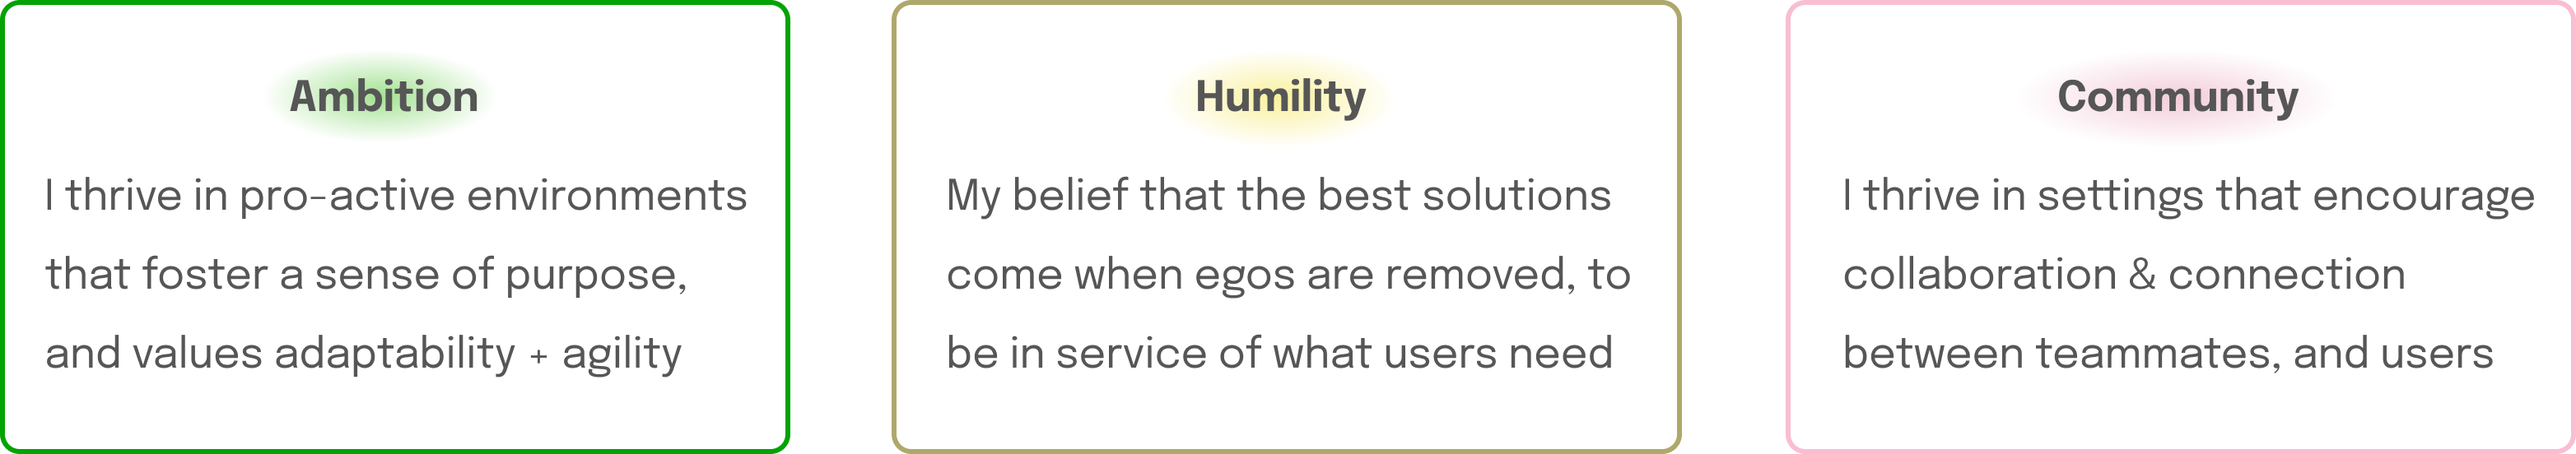
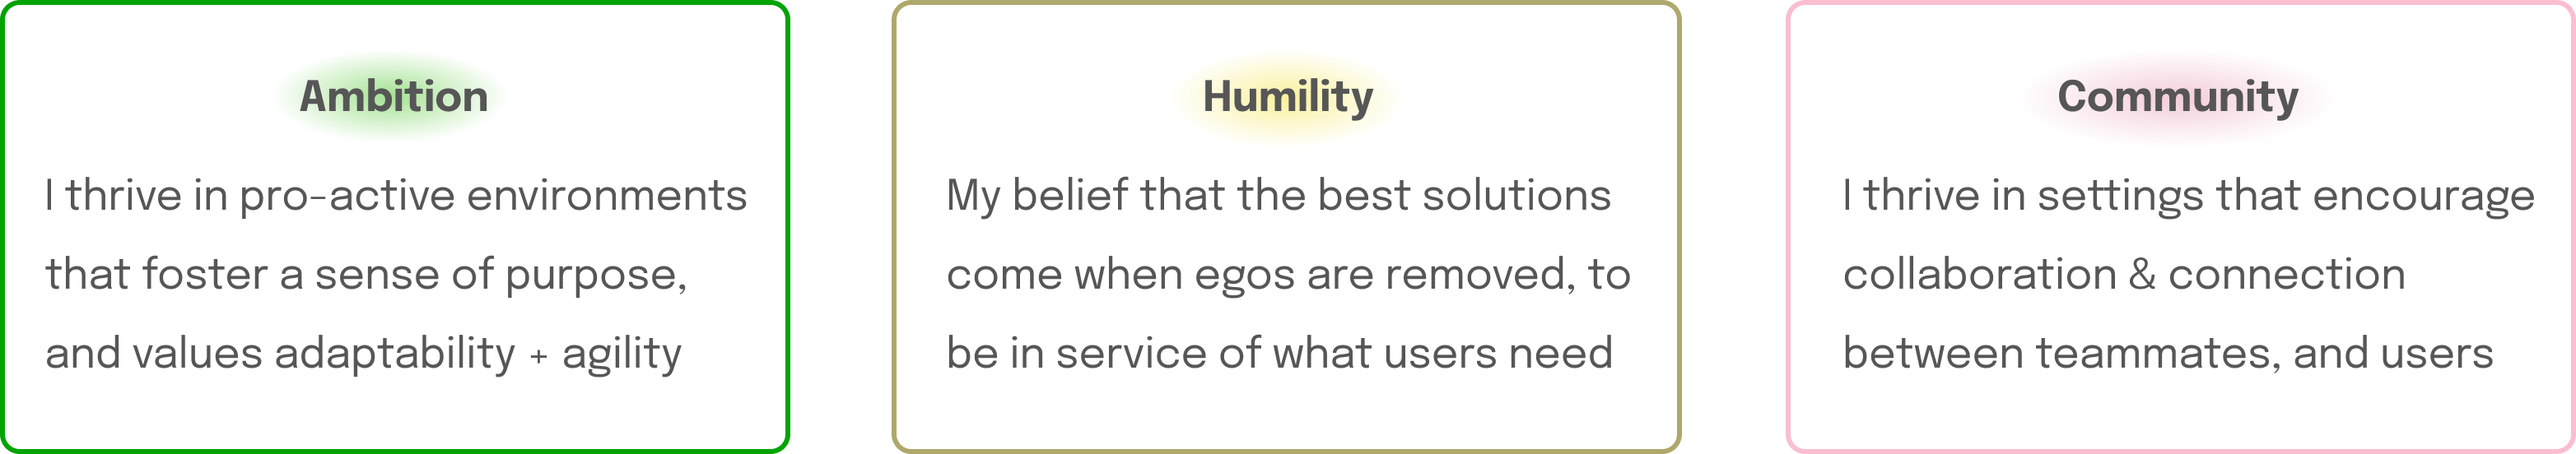
broke down text sizing of index header

Changed region(s): [[0.465, 0.154, 0.558, 0.2464], [0.093, 0.154, 0.186, 0.2464]]

diff --git a/index.html b/index.html
@@ -47,13 +47,14 @@
         <div class="left-right-padding-small" style="padding-top: 0rem; padding-bottom: 3rem;">
             <div>
                 <div class="hero">
-                    <div style="max-width: 100%; text-align: center;">
-                        <p data-aos="fade-up" data-aos-once="true" data-aos-delay="0" data-aos-duration="1000" data-aos-easing="ease-in-out" data-aos-mirror="false">Hi and welcome ◡̈</p>
+                    <div style="max-width: 100%; text-align: center; margin-left: auto; margin-right: auto;">
+                        <p data-aos="fade-up" data-aos-once="true" data-aos-delay="0" data-aos-duration="1000" data-aos-easing="ease-in-out" data-aos-mirror="false">Welcome ◡̈</p>
                         <!-- <h1 style="margin-top: 0.85rem; margin-bottom: 1.25rem;">I'm Stacy! A product designer who approaches design challenges with empathy and <span class="title-word title-word-1">humility</span>, and thrives on teams with <span class="title-word title-word-2">drive</span> and <span class="title-word title-word-3">community</span></h1> -->
-                        <h1 style="margin-top: 1.75rem; margin-bottom: 1.25rem;"  data-aos="fade-up" data-aos-once="true" data-aos-delay="1500" data-aos-duration="1000" data-aos-easing="ease-in-out" data-aos-mirror="false">I'm Stacy, a product designer who seeks to understand, and thrives amongst <span class="title-word title-word-1">ambition</span>, <span class="title-word title-word-2">humility</span>, and <span class="title-word title-word-3">community</span></h1>
+                        <h1 style="margin-top: 1.75rem; margin-bottom: 1.25rem;" data-aos="fade-up" data-aos-once="true" data-aos-delay="1000" data-aos-duration="1000" data-aos-easing="ease-in-out" data-aos-mirror="false">Hi, I'm Stacy Kwok!</h1>
+                        <p style="max-width: 55%; margin-left: auto; margin-right: auto;" data-aos="fade-up" data-aos-once="true" data-aos-delay="2000" data-aos-duration="1000" data-aos-easing="ease-in-out" data-aos-mirror="false">I'm a product designer who seeks to understand, and who thrives amongst <span class="title-word title-word-1">ambition</span>, <span class="title-word title-word-2">humility</span>, and <span class="title-word title-word-3">community</span></p>
                         <!-- <p style="max-width: 95%;">Recently designed for magical worlds <a href="https://www.jamcity.com/" target="_blank">@Jam City</a>, and for investing <a href="https://www.questrade.com/home" target="_blank">@Questrade</a>.</p> -->
                         <!-- <a href="https://www.questrade.com/" target="_blank">@Questrade</a>, <a href="https://www.lcbonext.com/" target="_blank">@LCBO|next</a>, and for non-profits <a href="https://uwblueprint.org/" target="_blank">@UW Blueprint</a> -->
-                        <img src="assets-index/header.svg" style="max-width:120%;height:auto;padding-top: 1.8rem; padding-bottom: 0.75rem; padding-left: 1.5rem;" data-aos="fade-up" data-aos-once="true" data-aos-delay="2500" data-aos-duration="1000" data-aos-easing="ease-in-out" data-aos-mirror="false">
+                        <img src="assets-index/header.svg" style="max-width:120%;height:auto;padding-top: 1.8rem; padding-bottom: 0.75rem; padding-left: 1.5rem;" data-aos="fade-up" data-aos-once="true" data-aos-delay="2000" data-aos-duration="1000" data-aos-easing="ease-in-out" data-aos-mirror="false">
                     </div>
                     <!-- <img src="assets-index/sun.svg" style="max-width:120%;height:auto;padding-top: 1rem; padding-bottom: 0.75rem;"> -->
                 </div>
@@ -76,14 +77,14 @@
         <!-- <div class="left-right-padding-small" data-aos="fade" data-aos-once="true" data-aos-delay="0" data-aos-duration="800" data-aos-easing="ease-in-out" data-aos-mirror="false"> -->
         <div class="left-right-padding-small">
             <div class="hero" style="padding-right: 3rem; padding-top: 2.75rem; justify-content: center;">
-                <p class="line-behind" style="width: 100%;" data-aos="fade-up" data-aos-once="true" data-aos-delay="0" data-aos-duration="500" data-aos-easing="ease-in-out" data-aos-mirror="false"><span style="background-color: #F8F6F4; padding: 0 15px; text-align: center;">What do I mean in the statement above?</span></p>
+                <p class="line-behind" style="width: 100%;" data-aos="fade-up" data-aos-once="true" data-aos-delay="3000" data-aos-duration="1000" data-aos-easing="ease-in-out" data-aos-mirror="false"><span style="background-color: #F8F6F4; padding: 0 15px; text-align: center;">What do I mean in the statement above?</span></p>
             </div>
-            <img src="assets-index-2/values-3.png" style="max-width:88%;height:auto;padding-left: 2.75rem;padding-top: 2.5rem;" data-aos="fade-up" data-aos-once="true" data-aos-delay="1000" data-aos-duration="500" data-aos-easing="ease-in-out" data-aos-mirror="false">
+            <img src="assets-index-2/values-3.png" style="max-width:88%;height:auto;padding-left: 2.75rem;padding-top: 2.5rem;" data-aos="fade-up" data-aos-once="true" data-aos-delay="500" data-aos-duration="500" data-aos-easing="ease-in-out" data-aos-mirror="false">
         </div>
         <br><br><br>
         <div class="left-right-padding-small">
             <div class="hero" style="padding-right: 3rem;justify-content: center;">
-                <p class="line-behind" style="width: 100%;" data-aos="fade-up" data-aos-once="true" data-aos-delay="1000" data-aos-duration="500" data-aos-easing="ease-in-out" data-aos-mirror="false"><span style="background-color: #F8F6F4; padding: 0 15px; text-align: center;">Featured projects</span></p>
+                <p class="line-behind" style="width: 100%;" data-aos="fade-up" data-aos-once="true" data-aos-delay="500" data-aos-duration="500" data-aos-easing="ease-in-out" data-aos-mirror="false"><span style="background-color: #F8F6F4; padding: 0 15px; text-align: center;">Featured projects</span></p>
                 <!-- <h4>My recent work ↓</h4> -->
                 <!-- <span class="material-icons" style="font-size: 20px; padding-left: 0.4rem; padding-top: 0.2rem;">arrow_downward</span>  -->
             </div>
@@ -124,7 +125,7 @@
                 </div>
             </div> -->
 
-            <div class="project-1-col" data-aos="fade-up" data-aos-once="true" data-aos-delay="1500" data-aos-duration="500" data-aos-easing="ease-in-out" data-aos-mirror="false">
+            <div class="project-1-col" data-aos="fade-up" data-aos-once="true" data-aos-delay="500" data-aos-duration="500" data-aos-easing="ease-in-out" data-aos-mirror="false">
                 <a onclick="PassWord()" id="no-decor">
                     <div class="glow-gold">
                         <div style="padding-top: 0rem; padding-bottom: 1rem; margin-right: 0.25rem;">

diff --git a/me.html b/me.html
@@ -51,7 +51,7 @@
                 </div>
                 <div class="project-2-col-text" style="max-width: 50%; padding-top: 1.25rem;">
                     <p style="margin-bottom: 0rem;">Hi, nice to meet you ◡̈</p>
-                    <h1 style="margin-top: 0.25rem; margin-bottom: 0.25rem;">I’m Stacy Kwok!</h1>
+                    <h1 style="margin-top: 0.25rem; margin-bottom: 0.25rem;">I’m Stacy!</h1>
                     <p>I’m a fourth year engineering student at the University of Waterloo, whose passion for giving back to the community accidentally led to the start of a journey in product & UX design.</p>
                 </div>
             </div>

diff --git a/main.css b/main.css
@@ -261,7 +261,8 @@ footer > ul {
 
 .title-word {
     animation: color-animation 6s linear infinite;
-    font-weight: 700; font-size: 40px; line-height: 56px; letter-spacing: 0.01em; color: #3C3C3C;
+    /* font-weight: 700; font-size: 40px; line-height: 56px; letter-spacing: 0.01em; color: #3C3C3C; */
+    font-weight: 700;
     padding-top: 0.5rem;
     padding-bottom: 0.25rem;
     /* padding-left: 0.25rem;
